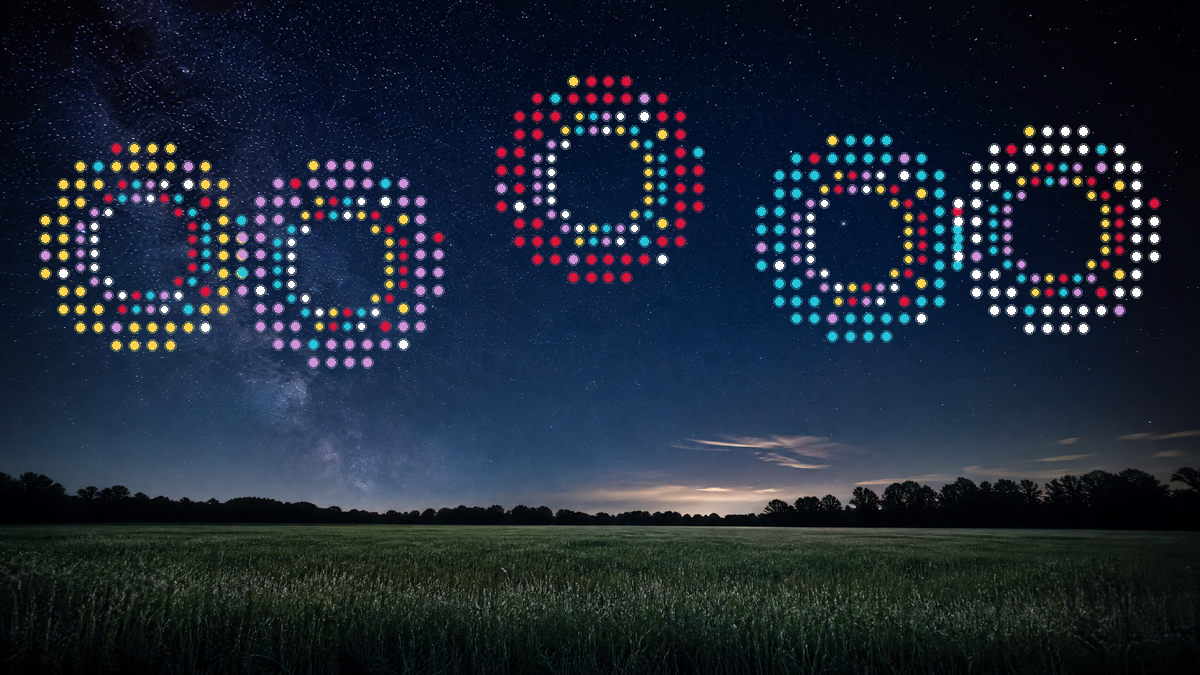
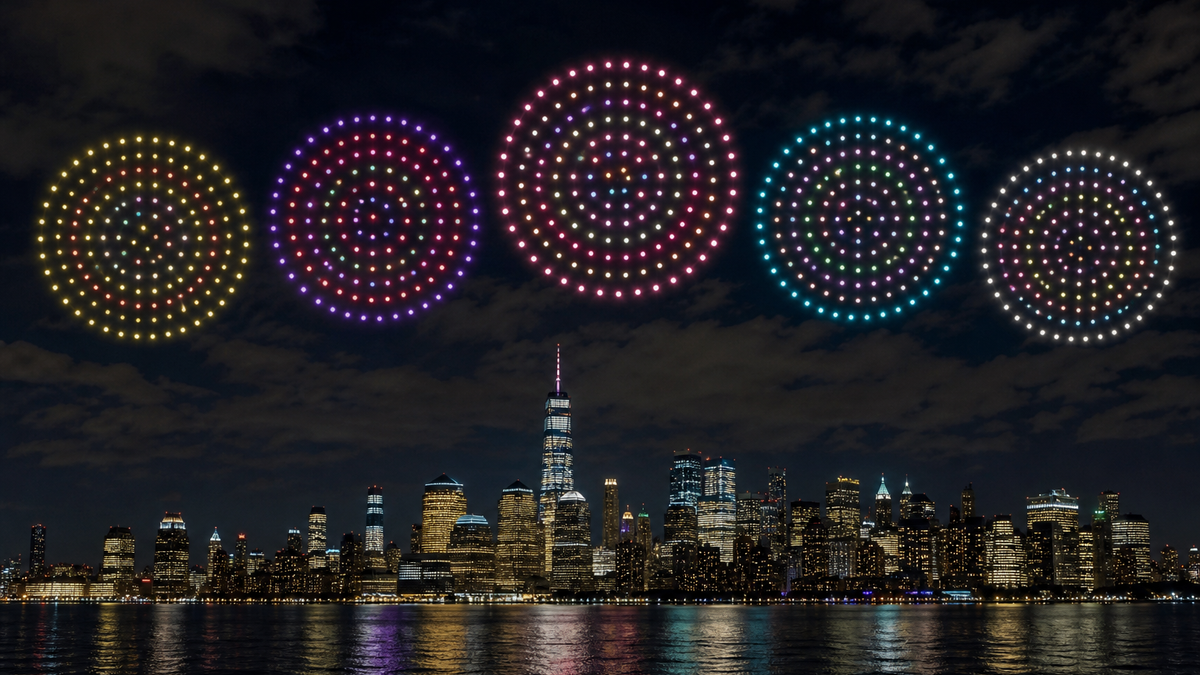
Use NYC five-pattern skyline image for Flame Test Fireworks tool thumbnail.

diff --git a/scripts/generate-flame-fireworks-thumbnail.py b/scripts/generate-flame-fireworks-thumbnail.py
@@ -1,16 +1,20 @@
-"""Generate Interactive Tools card thumbnail with flame-test firework rings."""
+"""Generate or import Interactive Tools card thumbnail for Flame Test Fireworks."""
 from __future__ import annotations
 
+import argparse
 import math
+import sys
 from pathlib import Path
 
 from PIL import Image, ImageDraw
 
 ROOT = Path(__file__).resolve().parent.parent
 OUT = ROOT / "images" / "interactive-tools-flame-fireworks-preview.png"
+DEFAULT_SOURCE = ROOT / "images" / "flame-fireworks-thumb-source.png"
 BG = ROOT / "public" / "tools" / "flame-test-fireworks" / "assets" / "backgrounds" / "city-skyline-2.png"
 
 W, H = 1200, 675
+CIRCLE_RADIUS = 7
 
 SKY = {
     "sky_top": 0.04,
@@ -23,17 +27,13 @@ SKY = {
     "layer_y": [0.52, 0.56, 0.36, 0.5, 0.48],
 }
 
-# Ring highlight + accent dots (HKDSE flame colours)
 SHELLS = [
-    {"ring": "#FFD54F", "accents": ["#DC143C", "#26C6DA", "#CE93D8", "#FFFFFF"]},
-    {"ring": "#CE93D8", "accents": ["#FFD54F", "#DC143C", "#26C6DA", "#FFFFFF"]},
-    {"ring": "#DC143C", "accents": ["#FFD54F", "#26C6DA", "#CE93D8", "#FFFFFF"]},
-    {"ring": "#26C6DA", "accents": ["#FFD54F", "#DC143C", "#CE93D8", "#FFFFFF"]},
-    {"ring": "#FFFFFF", "accents": ["#FFD54F", "#DC143C", "#26C6DA", "#CE93D8"]},
+    {"primary": "#FFD54F", "accents": ["#DC143C", "#26C6DA", "#CE93D8", "#FFFFFF", "#66BB6A"]},
+    {"primary": "#CE93D8", "accents": ["#FFD54F", "#DC143C", "#26C6DA", "#FFFFFF", "#E64A19"]},
+    {"primary": "#DC143C", "accents": ["#FFD54F", "#26C6DA", "#CE93D8", "#FFFFFF", "#66BB6A"]},
+    {"primary": "#26C6DA", "accents": ["#FFD54F", "#DC143C", "#CE93D8", "#FFFFFF", "#E64A19"]},
+    {"primary": "#FFFFFF", "accents": ["#FFD54F", "#DC143C", "#26C6DA", "#CE93D8", "#66BB6A"]},
 ]
-
-CIRCLE_RADIUS_CELLS = 7
-RING_DIST_FRAC = 0.72
 
 
 def burst_xy(index: int) -> tuple[float, float]:
@@ -68,68 +68,95 @@ def max_outer_radius() -> float:
     return min(max_w, max_h, band_h * 0.4 * scale)
 
 
-def ring_points(cx: float, cy: float, outer_r: float, dist_frac: float) -> list[tuple[float, float]]:
-    pitch = (outer_r / CIRCLE_RADIUS_CELLS) * 0.92
-    target = CIRCLE_RADIUS_CELLS * dist_frac
-    pts = []
+def cover_crop(img: Image.Image, width: int, height: int) -> Image.Image:
+    w, h = img.size
+    scale = max(width / w, height / h)
+    nw, nh = int(w * scale), int(h * scale)
+    resized = img.resize((nw, nh), Image.Resampling.LANCZOS)
+    left = (nw - width) // 2
+    top = (nh - height) // 2
+    return resized.crop((left, top, left + width, top + height))
+
+
+def import_source(path: Path) -> Image.Image:
+    return cover_crop(Image.open(path).convert("RGB"), W, H)
+
+
+def draw_glow_dot(draw: ImageDraw.ImageDraw, x: float, y: float, color: str, r: int) -> None:
+    rgb = tuple(int(color[i : i + 2], 16) for i in (1, 3, 5))
+    glow = tuple(min(255, c + 35) for c in rgb)
+    draw.ellipse((x - r - 2, y - r - 2, x + r + 2, y + r + 2), fill=(*glow, 80))
+    draw.ellipse((x - r, y - r, x + r, y + r), fill=color)
+
+
+def draw_shell(base: Image.Image, cx: float, cy: float, outer_r: float, shell: dict) -> None:
+    overlay = Image.new("RGBA", base.size, (0, 0, 0, 0))
+    draw = ImageDraw.Draw(overlay)
+    pitch = (outer_r / CIRCLE_RADIUS) * 0.9
+    ring_target = CIRCLE_RADIUS * 0.72
+
     for row in range(16):
         for col in range(16):
             dx = col - 7.5
             dy = row - 7.5
-            if math.hypot(dx, dy) > CIRCLE_RADIUS_CELLS:
-                continue
             dist = math.hypot(dx, dy)
-            if abs(dist - target) > 0.85:
+            if dist > CIRCLE_RADIUS:
                 continue
-            pts.append((cx + dx * pitch, cy + dy * pitch))
-    return pts
-
-
-def draw_glow_dot(draw: ImageDraw.ImageDraw, x: float, y: float, color: str, r: int = 4) -> None:
-    rgb = tuple(int(color[i : i + 2], 16) for i in (1, 3, 5))
-    glow = tuple(min(255, c + 40) for c in rgb)
-    draw.ellipse((x - r - 2, y - r - 2, x + r + 2, y + r + 2), fill=(*glow, 70))
-    draw.ellipse((x - r, y - r, x + r, y + r), fill=color)
-
-
-def draw_shell(
-    base: Image.Image,
-    cx: float,
-    cy: float,
-    outer_r: float,
-    shell: dict,
-) -> None:
-    overlay = Image.new("RGBA", base.size, (0, 0, 0, 0))
-    draw = ImageDraw.Draw(overlay)
-    ring_pts = ring_points(cx, cy, outer_r, RING_DIST_FRAC)
-    inner_pts = ring_points(cx, cy, outer_r * 0.78, RING_DIST_FRAC * 0.78)
-
-    for i, (x, y) in enumerate(ring_pts):
-        c = shell["ring"] if i % 5 else shell["accents"][i % len(shell["accents"])]
-        draw_glow_dot(draw, x, y, c, 4)
-
-    for i, (x, y) in enumerate(inner_pts):
-        c = shell["accents"][i % len(shell["accents"])]
-        draw_glow_dot(draw, x, y, c, 3)
+            x = cx + dx * pitch
+            y = cy + dy * pitch
+            if abs(dist - ring_target) < 0.85:
+                color = shell["primary"]
+                radius = 4
+            else:
+                idx = (row * 5 + col * 3) % len(shell["accents"])
+                color = shell["accents"][idx]
+                radius = 3
+            draw_glow_dot(draw, x, y, color, radius)
 
     base.alpha_composite(overlay)
 
 
-def main() -> None:
+def generate_composite() -> Image.Image:
     if not BG.exists():
         raise SystemExit(f"Missing background: {BG}")
-
     img = Image.open(BG).convert("RGBA")
     img = img.resize((W, H), Image.Resampling.LANCZOS)
     outer_r = max_outer_radius() * 0.92
-
     for i, shell in enumerate(SHELLS):
         cx, cy = burst_xy(i)
         draw_shell(img, cx, cy, outer_r, shell)
+    return img.convert("RGB")
 
+
+def save(img: Image.Image) -> None:
     OUT.parent.mkdir(parents=True, exist_ok=True)
-    img.convert("RGB").save(OUT, "PNG", optimize=True)
+    img.save(OUT, "PNG", optimize=True)
     print("wrote", OUT, OUT.stat().st_size // 1024, "KB")
+
+
+def main() -> None:
+    parser = argparse.ArgumentParser(description="Import or generate flame fireworks tool thumbnail.")
+    parser.add_argument(
+        "source",
+        nargs="?",
+        help="Screenshot to use (cropped to 1200x675). Defaults to images/flame-fireworks-thumb-source.png if present.",
+    )
+    args = parser.parse_args()
+
+    source = None
+    if args.source:
+        source = Path(args.source)
+    elif DEFAULT_SOURCE.exists():
+        source = DEFAULT_SOURCE
+
+    if source:
+        if not source.exists():
+            print(f"Source not found: {source}", file=sys.stderr)
+            sys.exit(1)
+        save(import_source(source))
+        return
+
+    save(generate_composite())
 
 
 if __name__ == "__main__":